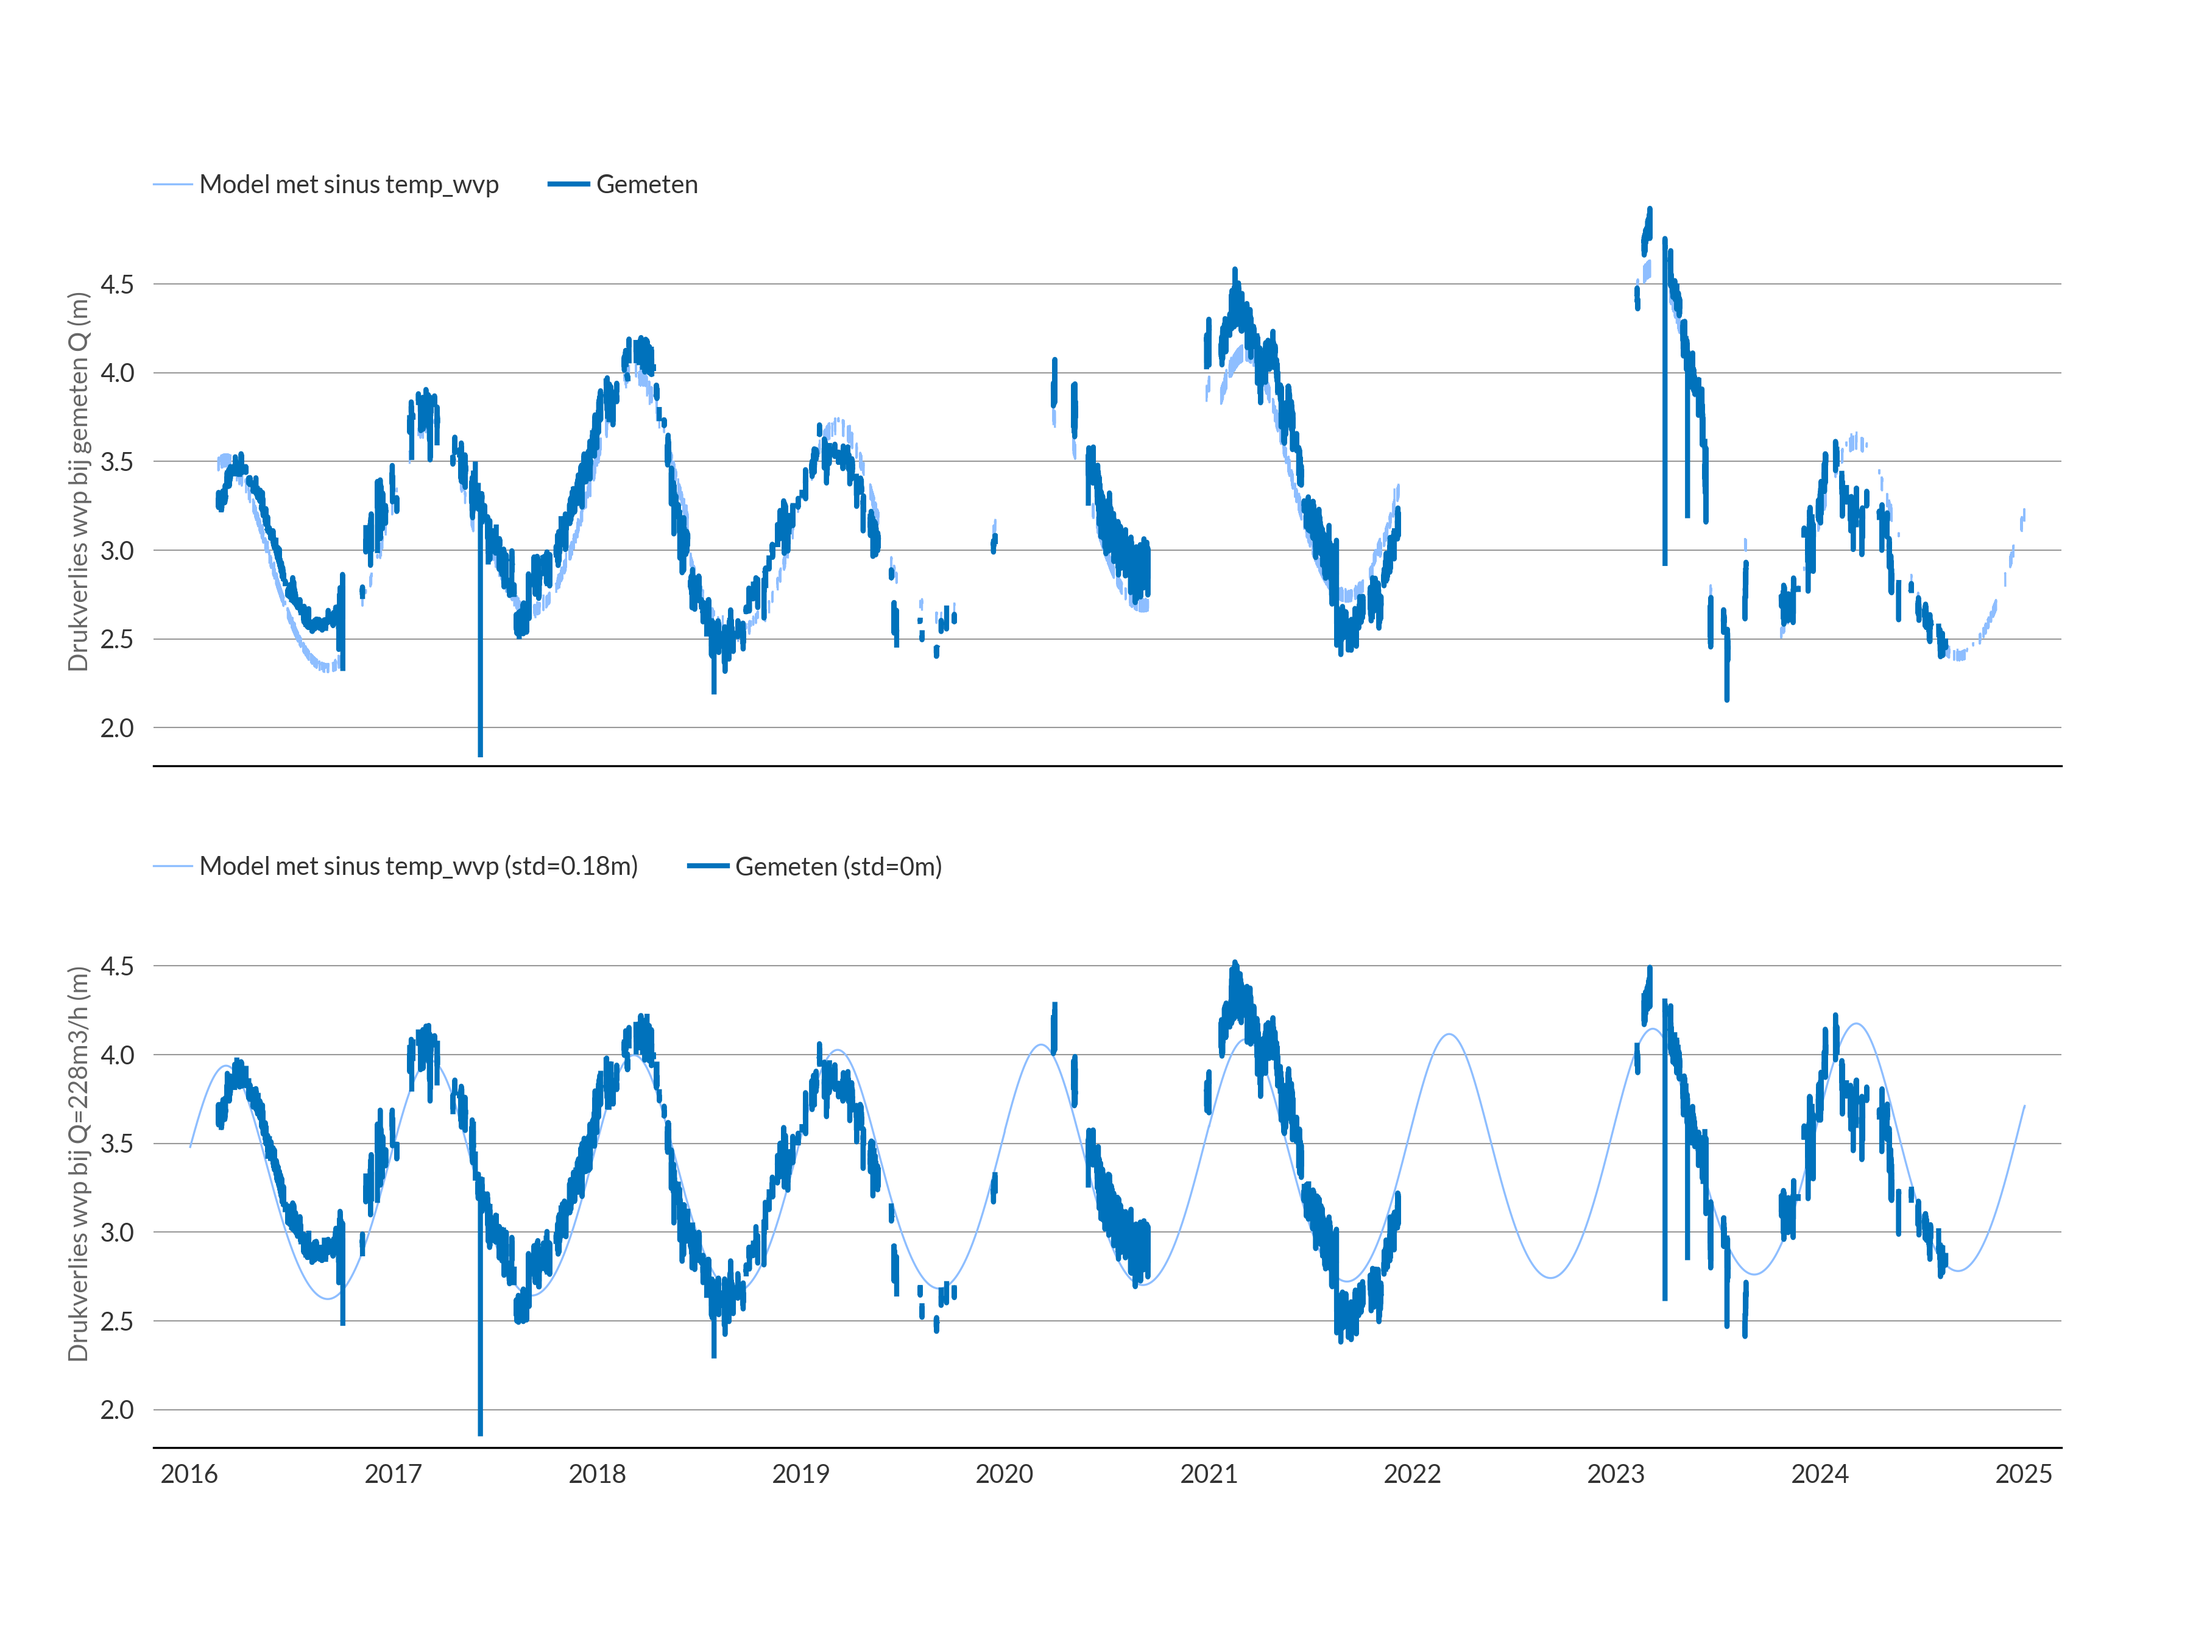
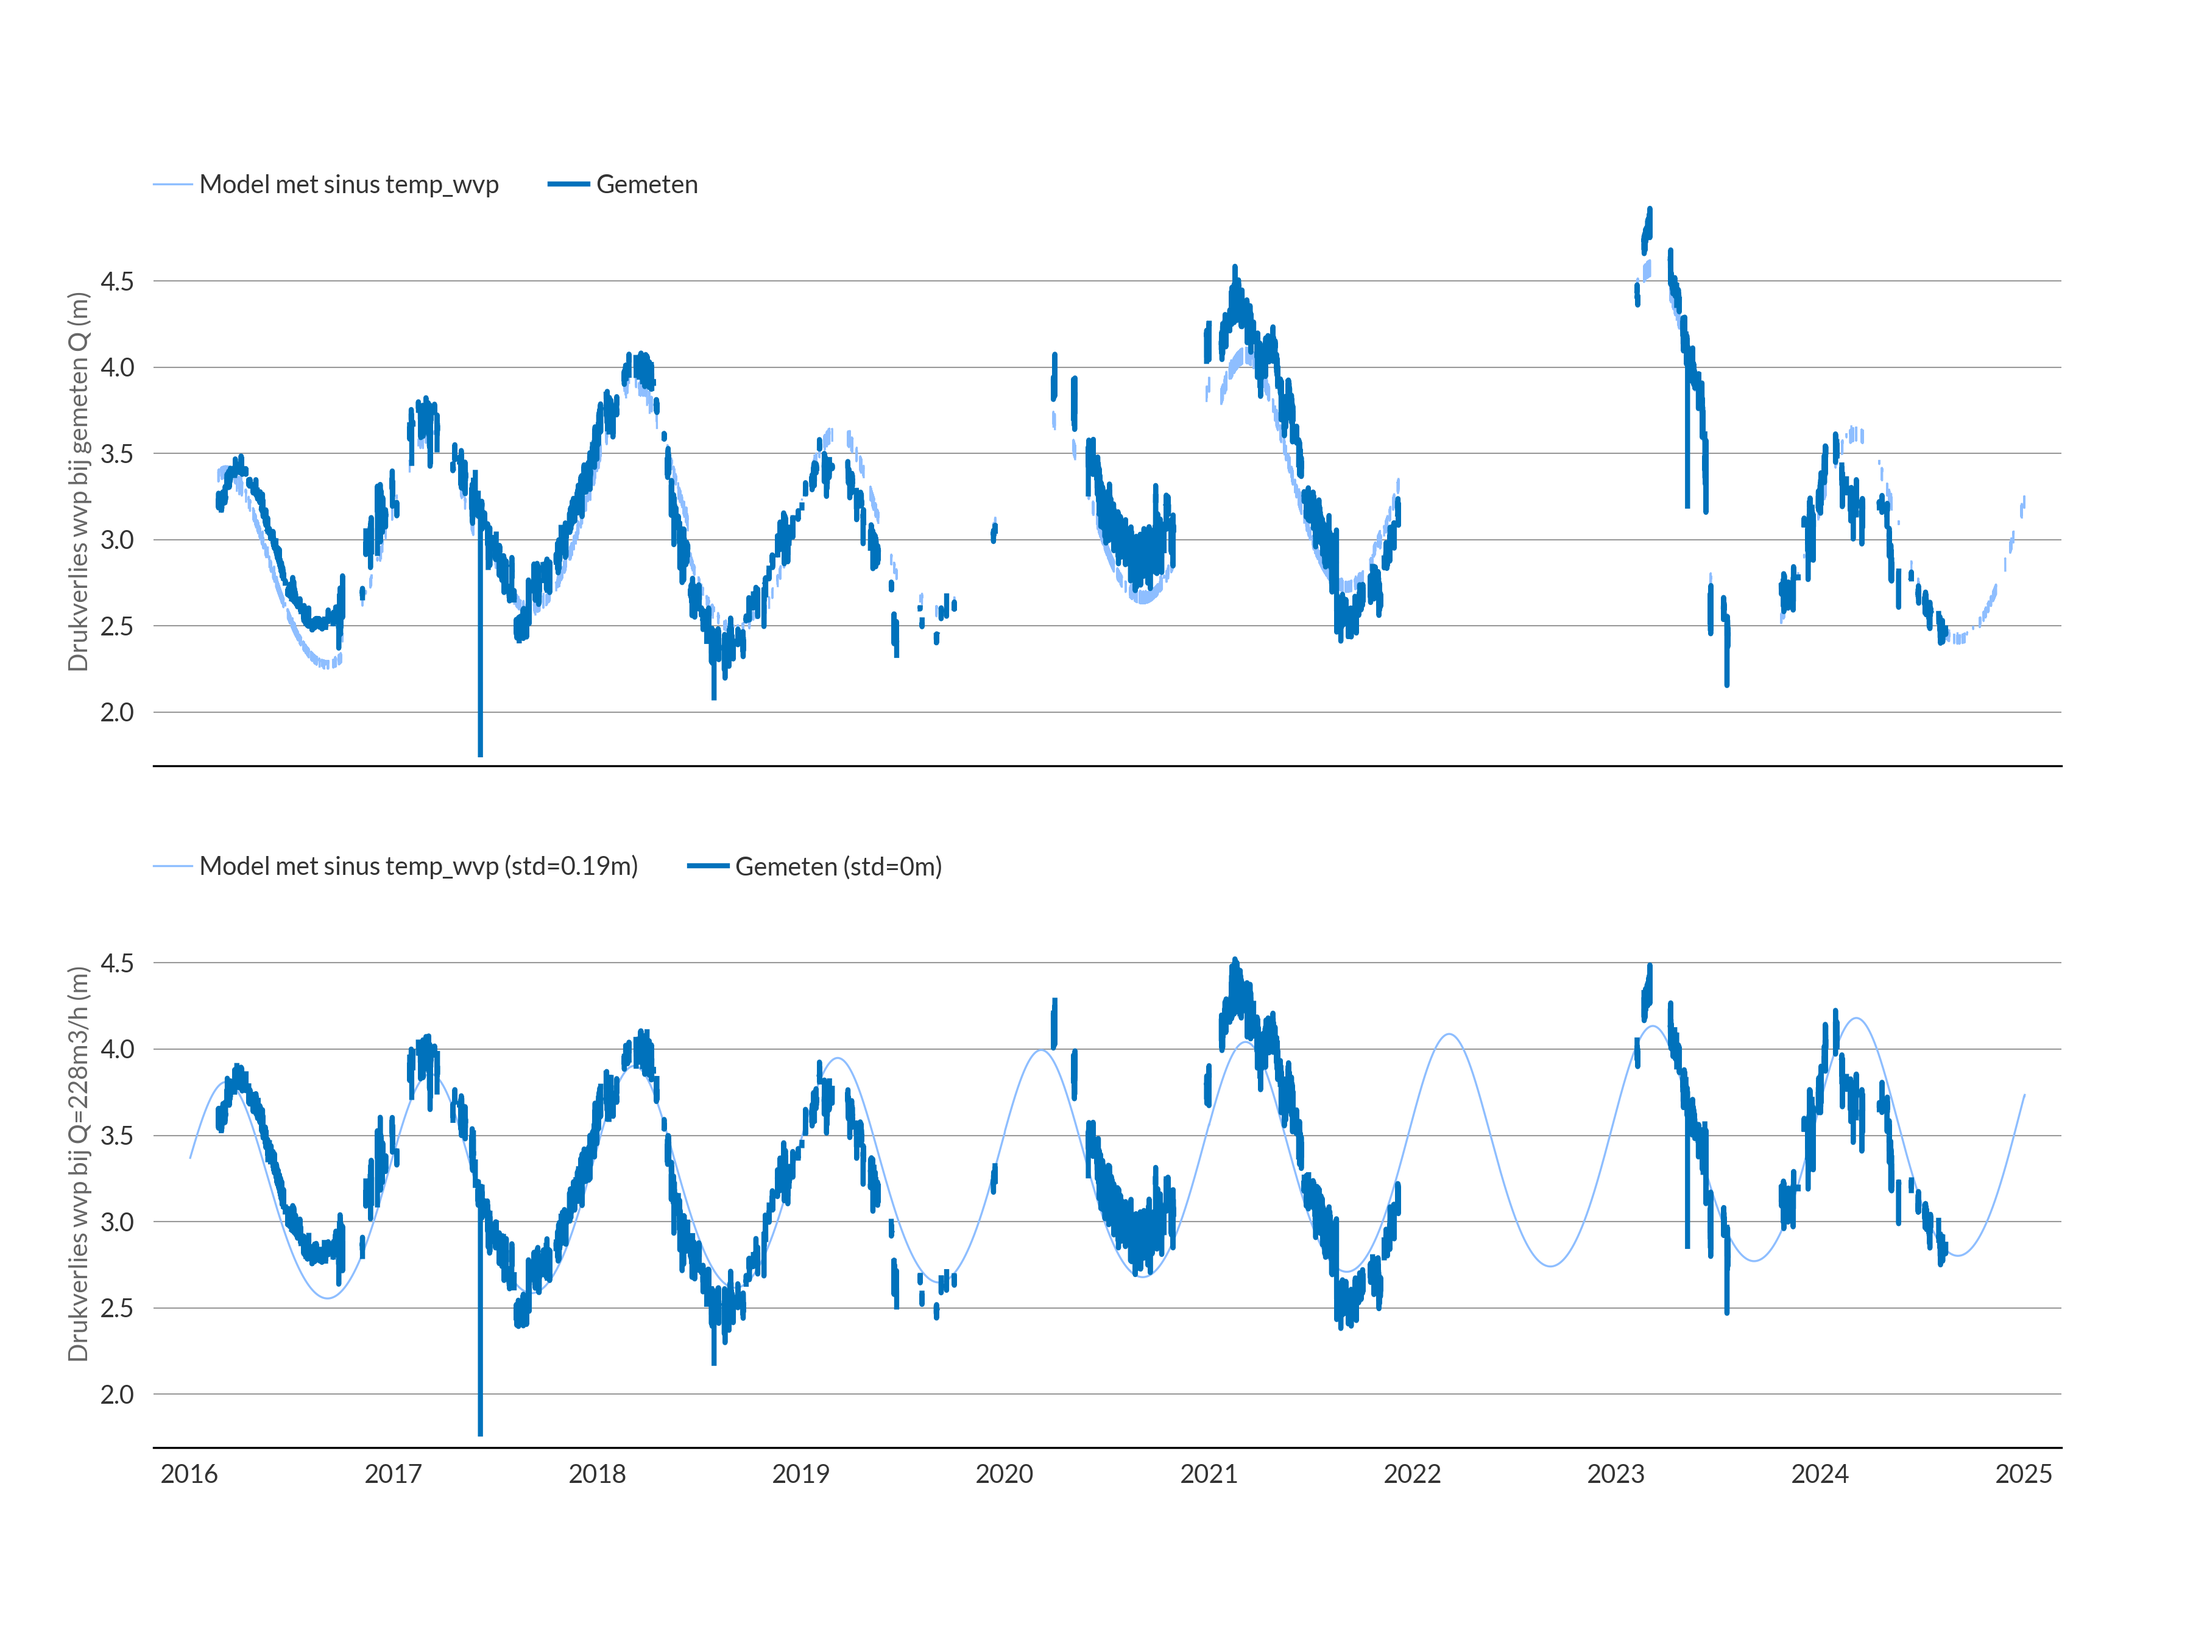
Adjust measurement validation and update pressure calculations in wvpweerstand.py

diff --git a/productiecapaciteit/reports/wvpweerstand.py b/productiecapaciteit/reports/wvpweerstand.py
@@ -202,19 +202,20 @@ for strang, c in config.iterrows():
 
     include_rules = [
         "Unrealistic flow",
-        # "Tijdens spuien",
+        "Tijdens spuien",
+        "Tijdens proppen",
         "Little flow",
         # "Niet steady",
         # "Niet 3-day steady"
     ]
-    untrusted_measurements = get_false_measurements(df, c, extend_hours=1, include_rules=include_rules)
+    untrusted_measurements = get_false_measurements(df, c, extend_hours=10, include_rules=include_rules)
 
     df.loc[untrusted_measurements, :] = np.nan
 
     # only use steady state (2 days constant)
     df_a_filter = pd.read_excel(filterweerstand_fp, sheet_name=strang)
     df_a_leiding = pd.read_excel(leidingweerstand_fp, sheet_name=strang)
-    p_omstorting = df.gws1.where(~df.gws1.isna(), df.gws0 + df_a_filter.wel.dp_model(df.index, df.Q / c.nput))
+    p_omstorting = df.gws1.where(~df.gws1.isna(), df.gws0 - df_a_filter.wel.dp_model(df.index, df.Q / c.nput))
     df["dP_wvp2"] = p_omstorting - df.pandpeil
     percentage = 0.20
 
